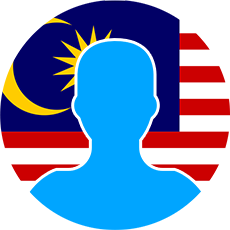
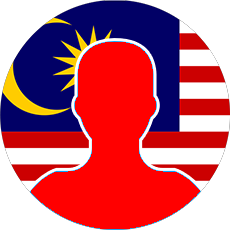
Many updates

diff --git a/angel.html b/angel.html
@@ -13,9 +13,6 @@
         <link rel="stylesheet" href="css/bootstrap.css">
         <link rel="stylesheet" href="css/style.css">
         <link rel="stylesheet" href="css/responsive.css">
-        <script>
-
-        </script>
     </head>
     <body>
 
@@ -56,13 +53,11 @@
 					</div>
 					<div class="col-xs-12 col-sm-6 col-md-6 col-lg-6 header-content">
 						<div class="header-h1">UNCENSORABLE VIDEOS</div>
-						<div class="header-text">A Leading App on MaidSafe's SAFE Network</div>
+						<div class="header-text">A Leading on the MaidSafe SAFE Network</div>
 						<div class="header-buttons">
 							<ul>
-							    <li><a href="#angel" class="white-button">Buy FreeView ICO Coin</a></li>
-							    <li><a href="#angel" class="white-button">Earn Sales Commission</a></li>
-                  <br><br><br><br><br><center><h1 style="color:white; font-weight:200">Angel Round Begins in 4 days</h1></center>
-
+							    <li><a href="#" class="white-button">Buy FreeView ICO Coin</a></li>
+							    <li><a href="#" class="white-button">Earn Sales Commission</a></li>
 							</ul>
 						</div>
 					</div>
@@ -79,8 +74,8 @@
     	<section class="masses">
 			<div class="container">
 				<div class="row">
-					<h1 class="text-center">Opening Youtube to the World</h1>
-					<h3 class="text-center sub-title">Connecting Youku to YouTube through Encryption</h1>
+					<h1 class="text-center">Video Encrypton for All</h1>
+					<h3 class="text-center sub-title">Safe Network Transmission</h1>
 
 					<div class="col-xs-12 col-sm-4 col-md-4 col-lg-4">
 						<div class="mobile masses-logo-mobile text-center wow fadeInUp">
@@ -160,7 +155,7 @@
 				<div class="row">
 					<div class="col-xs-12 col-sm-6 col-md-6 col-lg-6 text-center will-div">
 						<img class="big-pic img-responsive" src="img/will-pic.png" alt="">
-						<div class="content-title"><h3><a href="#company"></a><a id="team2"></a>Long Standing Community Developers</h3></div>
+						<div class="content-title"><h3><a href="#company"></a>Long Standing Community Developers</h3></div>
 						<div class="content-text">
 							<p>CEO WhiteOutMashups has been an active community developer for the SAFE Network for 3+ years, and has produced countless SAFE apps for the community.</p>
 						</div>
@@ -169,7 +164,7 @@
 						</div>
 					</div>
 					<div class="col-xs-12 col-sm-6 col-md-6 col-lg-6 text-center raja-div">
-						<img class="big-pic img-responsive" src="img/raja-big.png" alt=""><a href="#team2"></a>
+						<img class="big-pic img-responsive" src="img/raja-big.png" alt="">
 						<div class="content-title"><h3>RAJA S.</h3></div>
 						<div class="content-text">
 							<p>Raja has 13 years of extensive history in the software and web development fields, and has spent most of his time developing dynamic backends.</p>
@@ -179,7 +174,7 @@
 						</div>
 					</div>
 					<div class="col-xs-12 col-sm-6 col-md-6 col-lg-6 text-center zaw-div">
-						<img class="big-pic img-responsive" src="img/zaw-big.png" alt=""><a href="#team2"></a>
+						<img class="big-pic img-responsive" src="img/zaw-big.png" alt="">
 						<div class="content-title"><h3>ZAW MYO HTET</h3></div>
 						<div class="content-text">
 							<p>After studying programming in Burma for most of his life, Zaw had teamed up with Will at University and the two have been involved in several joint startups.</p>
@@ -189,7 +184,7 @@
 						</div>
 					</div>
 					<div class="col-xs-12 col-sm-6 col-md-6 col-lg-6 text-center hire-div">
-						<img class="big-pic img-responsive" src="img/hire-big.png" alt=""><a href="#team2"></a>
+						<img class="big-pic img-responsive" src="img/hire-big.png" alt="">
 						<div class="content-title"><h3>MALAYSIAN OFFICE NEW HIRES</h3></div>
 						<div class="content-text">
 							<p>Operating out of Malaysia, the FreeView team is taking on full time staff at its new office space in Kuala Lumpur, to facilitate rapid development.</p>
@@ -264,17 +259,17 @@
 					  	<div>
 					  		<a href="http://198.199.95.121:8000/" target="_blank"><img src="img/safe-network.png" class="" alt=""></a>
 					  	</div>
+					  	<div>
+					  		<img src="img/bubble.jpg" style="width: 250px; margin: auto;" alt="">
+					  	</div>
 					  	<div class="item-video">
-					  		<a class="owl-video" style="margin: auto;" href="https://youtu.be/Cv1bZQb3q1o"></a>
+					  		<a class="owl-video" style="margin: auto;" href="https://www.youtube.com/watch?v=Cv1bZQb3q1o"></a>
 					  	</div>
 					  	<div>
-					  		<img src="img/youku2.png" class="" alt="">
+					  		<img src="img/years-img-2.png" class="" alt="">
 					  	</div>
 					  	<div>
-					  		<img src="img/youku-data.png" class="" alt="">
-					  	</div>
-              <div>
-					  		<img src="img/yt.jpg" class="" alt="">
+					  		<img src="img/years-img-2.png" class="" alt="">
 					  	</div>
 					</div>
 
@@ -368,8 +363,8 @@
 		<section class="protocol">
 			<div class="container">
 				<div class="row">
-					<h1 class="text-center">Invest in FVC</h1>
-					<h3 class="text-center sub-title">Invest in the YouTube / Youku Disruptor</h1>
+					<h1 class="text-center">FreeView Class FVC</h1>
+					<h3 class="text-center sub-title">Protocol Proofs</h1>
 
 					<div class="protocol-section">
 						<div class="col-xs-12 col-sm-4 col-md-4 col-lg-4">
@@ -487,9 +482,8 @@
 					<h3 class="text-center white-sub-title">Invest in the Future of Data</h1>
 
 					<div class="invest-content">
-          <center><h1 style="color:white; font-weight:200"><a id="angel"></a>Angel Commission Addresses (50% Commission Paid)</h1></center>
-            <h1><font color="white">BTC ADDRESS: 13xcewij9dqSIDOJF09wjoidsj09JDSioSDjc0sjd</h1>
-              <h1>ETH ADDRESS: 0x7cewij9dqSIDOJF09wjoidsj09JDSioSDjc0sjd</a></h1>
+            <center><font color="white"><h3>Angel Round. COUNTDOWN TIMER HERE??</h3><h1>BTC ADDRESS: 14xcewij9dqSIDOJF09wjoidsj09JDSioSDjc0sjd</h1>
+              <h1>ETH ADDRESS: 0x7SDewij9dqSIDOJF09wjj09JDSioSDjc0sjd</h1></a><br><h1>Contributions sent here give commission to our Marketers</h1></center>
 						<h2 class="text-center white-title join-text"><a href="#community"></a>Join the Community!</h1>
 
 						<div class="join-img text-center wow fadeInUp">
@@ -505,9 +499,9 @@
 							    <li>
 							    	<a href="#">
 							    		<div class="join-img-area">
-							    			<img src="img/maidsafe.png" class="maidsafe-logo" alt="">
+							    			<img src="img/maidsafe-logo.svg" class="maidsafe-logo" alt="">
 							    		</div>
-							    		<p>FREEVIEW CHAT</p>
+							    		<p>SAFE-FC DISCUSSION</p>
 							    	</a>
 							    </li>
 							</ul>

diff --git a/china.html b/china.html
@@ -13,9 +13,6 @@
         <link rel="stylesheet" href="css/bootstrap.css">
         <link rel="stylesheet" href="css/style.css">
         <link rel="stylesheet" href="css/responsive.css">
-        <script>
-
-        </script>
     </head>
     <body>
 
@@ -56,13 +53,11 @@
 					</div>
 					<div class="col-xs-12 col-sm-6 col-md-6 col-lg-6 header-content">
 						<div class="header-h1">UNCENSORABLE VIDEOS</div>
-						<div class="header-text">A Leading App on MaidSafe's SAFE Network</div>
+						<div class="header-text">A Leading on the MaidSafe SAFE Network</div>
 						<div class="header-buttons">
 							<ul>
-							    <li><a href="#angel" class="white-button">Buy FreeView ICO Coin</a></li>
-							    <li><a href="#angel" class="white-button">Earn Sales Commission</a></li>
-                  <br><br><br><br><br><center><h1 style="color:white; font-weight:200">Angel Round Begins in 4 days</h1></center>
-
+							    <li><a href="#" class="white-button">Buy FreeView ICO Coin</a></li>
+							    <li><a href="#" class="white-button">Earn Sales Commission</a></li>
 							</ul>
 						</div>
 					</div>
@@ -79,8 +74,8 @@
     	<section class="masses">
 			<div class="container">
 				<div class="row">
-					<h1 class="text-center">Opening Youtube to the World</h1>
-					<h3 class="text-center sub-title">Connecting Youku to YouTube through Encryption</h1>
+					<h1 class="text-center">Video Encrypton for All</h1>
+					<h3 class="text-center sub-title">Safe Network Transmission</h1>
 
 					<div class="col-xs-12 col-sm-4 col-md-4 col-lg-4">
 						<div class="mobile masses-logo-mobile text-center wow fadeInUp">
@@ -160,7 +155,7 @@
 				<div class="row">
 					<div class="col-xs-12 col-sm-6 col-md-6 col-lg-6 text-center will-div">
 						<img class="big-pic img-responsive" src="img/will-pic.png" alt="">
-						<div class="content-title"><h3><a href="#company"></a><a id="team2"></a>Long Standing Community Developers</h3></div>
+						<div class="content-title"><h3><a href="#company"></a>Long Standing Community Developers</h3></div>
 						<div class="content-text">
 							<p>CEO WhiteOutMashups has been an active community developer for the SAFE Network for 3+ years, and has produced countless SAFE apps for the community.</p>
 						</div>
@@ -169,7 +164,7 @@
 						</div>
 					</div>
 					<div class="col-xs-12 col-sm-6 col-md-6 col-lg-6 text-center raja-div">
-						<img class="big-pic img-responsive" src="img/raja-big.png" alt=""><a href="#team2"></a>
+						<img class="big-pic img-responsive" src="img/raja-big.png" alt="">
 						<div class="content-title"><h3>RAJA S.</h3></div>
 						<div class="content-text">
 							<p>Raja has 13 years of extensive history in the software and web development fields, and has spent most of his time developing dynamic backends.</p>
@@ -179,7 +174,7 @@
 						</div>
 					</div>
 					<div class="col-xs-12 col-sm-6 col-md-6 col-lg-6 text-center zaw-div">
-						<img class="big-pic img-responsive" src="img/zaw-big.png" alt=""><a href="#team2"></a>
+						<img class="big-pic img-responsive" src="img/zaw-big.png" alt="">
 						<div class="content-title"><h3>ZAW MYO HTET</h3></div>
 						<div class="content-text">
 							<p>After studying programming in Burma for most of his life, Zaw had teamed up with Will at University and the two have been involved in several joint startups.</p>
@@ -189,7 +184,7 @@
 						</div>
 					</div>
 					<div class="col-xs-12 col-sm-6 col-md-6 col-lg-6 text-center hire-div">
-						<img class="big-pic img-responsive" src="img/hire-big.png" alt=""><a href="#team2"></a>
+						<img class="big-pic img-responsive" src="img/hire-big.png" alt="">
 						<div class="content-title"><h3>MALAYSIAN OFFICE NEW HIRES</h3></div>
 						<div class="content-text">
 							<p>Operating out of Malaysia, the FreeView team is taking on full time staff at its new office space in Kuala Lumpur, to facilitate rapid development.</p>
@@ -264,17 +259,17 @@
 					  	<div>
 					  		<a href="http://198.199.95.121:8000/" target="_blank"><img src="img/safe-network.png" class="" alt=""></a>
 					  	</div>
+					  	<div>
+					  		<img src="img/bubble.jpg" style="width: 250px; margin: auto;" alt="">
+					  	</div>
 					  	<div class="item-video">
-					  		<a class="owl-video" style="margin: auto;" href="https://youtu.be/Cv1bZQb3q1o"></a>
+					  		<a class="owl-video" style="margin: auto;" href="https://www.youtube.com/watch?v=Cv1bZQb3q1o"></a>
 					  	</div>
 					  	<div>
-					  		<img src="img/youku2.png" class="" alt="">
+					  		<img src="img/years-img-2.png" class="" alt="">
 					  	</div>
 					  	<div>
-					  		<img src="img/youku-data.png" class="" alt="">
-					  	</div>
-              <div>
-					  		<img src="img/yt.jpg" class="" alt="">
+					  		<img src="img/years-img-2.png" class="" alt="">
 					  	</div>
 					</div>
 
@@ -368,8 +363,8 @@
 		<section class="protocol">
 			<div class="container">
 				<div class="row">
-					<h1 class="text-center">Invest in FVC</h1>
-					<h3 class="text-center sub-title">Invest in the YouTube / Youku Disruptor</h1>
+					<h1 class="text-center">FreeView Class FVC</h1>
+					<h3 class="text-center sub-title">Protocol Proofs</h1>
 
 					<div class="protocol-section">
 						<div class="col-xs-12 col-sm-4 col-md-4 col-lg-4">
@@ -487,7 +482,6 @@
 					<h3 class="text-center white-sub-title">Invest in the Future of Data</h1>
 
 					<div class="invest-content">
-          <center><h1 style="color:white; font-weight:200"><a id="angel"></a>Angel Commission Addresses (50% Commission Paid)</h1></center>
             <h1><font color="white">BTC ADDRESS: 13xcewij9dqSIDOJF09wjoidsj09JDSioSDjc0sjd</h1>
               <h1>ETH ADDRESS: 0x7cewij9dqSIDOJF09wjoidsj09JDSioSDjc0sjd</a></h1>
 						<h2 class="text-center white-title join-text"><a href="#community"></a>Join the Community!</h1>
@@ -505,9 +499,9 @@
 							    <li>
 							    	<a href="#">
 							    		<div class="join-img-area">
-							    			<img src="img/maidsafe.png" class="maidsafe-logo" alt="">
+							    			<img src="img/maidsafe-logo.svg" class="maidsafe-logo" alt="">
 							    		</div>
-							    		<p>FREEVIEW CHAT</p>
+							    		<p>SAFE-FC DISCUSSION</p>
 							    	</a>
 							    </li>
 							</ul>

diff --git a/css/style.css b/css/style.css
@@ -15,7 +15,7 @@ a:hover {
 }
 
 header {
-	background: url('../img/header-bg-new.jpg') no-repeat center center fixed; 
+	background: url('../img/header-bg-new.jpg') no-repeat center center fixed;
   	-webkit-background-size: cover;
   	-moz-background-size: cover;
   	-o-background-size: cover;
@@ -34,7 +34,7 @@ header:after {
   height:100%;
   opacity:0.7;
   z-index: 0;
-  background: #00A5FF;
+  background: red;
 }
 
 h1 {
@@ -75,7 +75,7 @@ ul {
 }
 
 .content-title {
-	margin-top: 30px;	
+	margin-top: 30px;
 }
 
 .content-text {
@@ -283,7 +283,7 @@ ul {
 }
 
 .icon-bg {
-	background: #00A5FF;
+	background: red;
 	width: 80px;
 	height: 80px;
 	text-align: center;
@@ -441,6 +441,13 @@ ul {
   padding: 20px 0px;
   position: relative;
 }
+
+
+
+.smalltext{
+	padding-top: 5px;
+	font-size: 16px;
+}
 .timeline li .timeline-badge {
   color: #fff;
   width: 50px;
@@ -452,7 +459,7 @@ ul {
   top: 16px;
   left: 50%;
   margin-left: -25px;
-  background: #007cbf;
+  background: red;
   border: 5px solid white;
   z-index: 100;
   border-top-right-radius: 50%;
@@ -554,7 +561,7 @@ ul {
 }
 
 .invest {
-	background: url('../img/footer-bg-new.jpg') no-repeat center center fixed; 
+	background: url('../img/footer-bg-new.jpg') no-repeat center center fixed;
   	-webkit-background-size: cover;
   	-moz-background-size: cover;
   	-o-background-size: cover;
@@ -576,7 +583,7 @@ ul {
   	height:100%;
   	opacity:0.7;
   	z-index: 0;
-  	background: #00A5FF;
+  	background: red;
 }
 
 .invest .container {
@@ -856,7 +863,7 @@ ul {
 .will-pic-small {
 	width: 150px;
 	height: 150px;
-	border-radius: 50%; 
+	border-radius: 50%;
 }
 
 .social {
@@ -989,7 +996,7 @@ ul {
     height:100%;
     opacity:0.7;
     z-index: 0;
-    background: #00A5FF;
+    background: red;
 }
 
 
